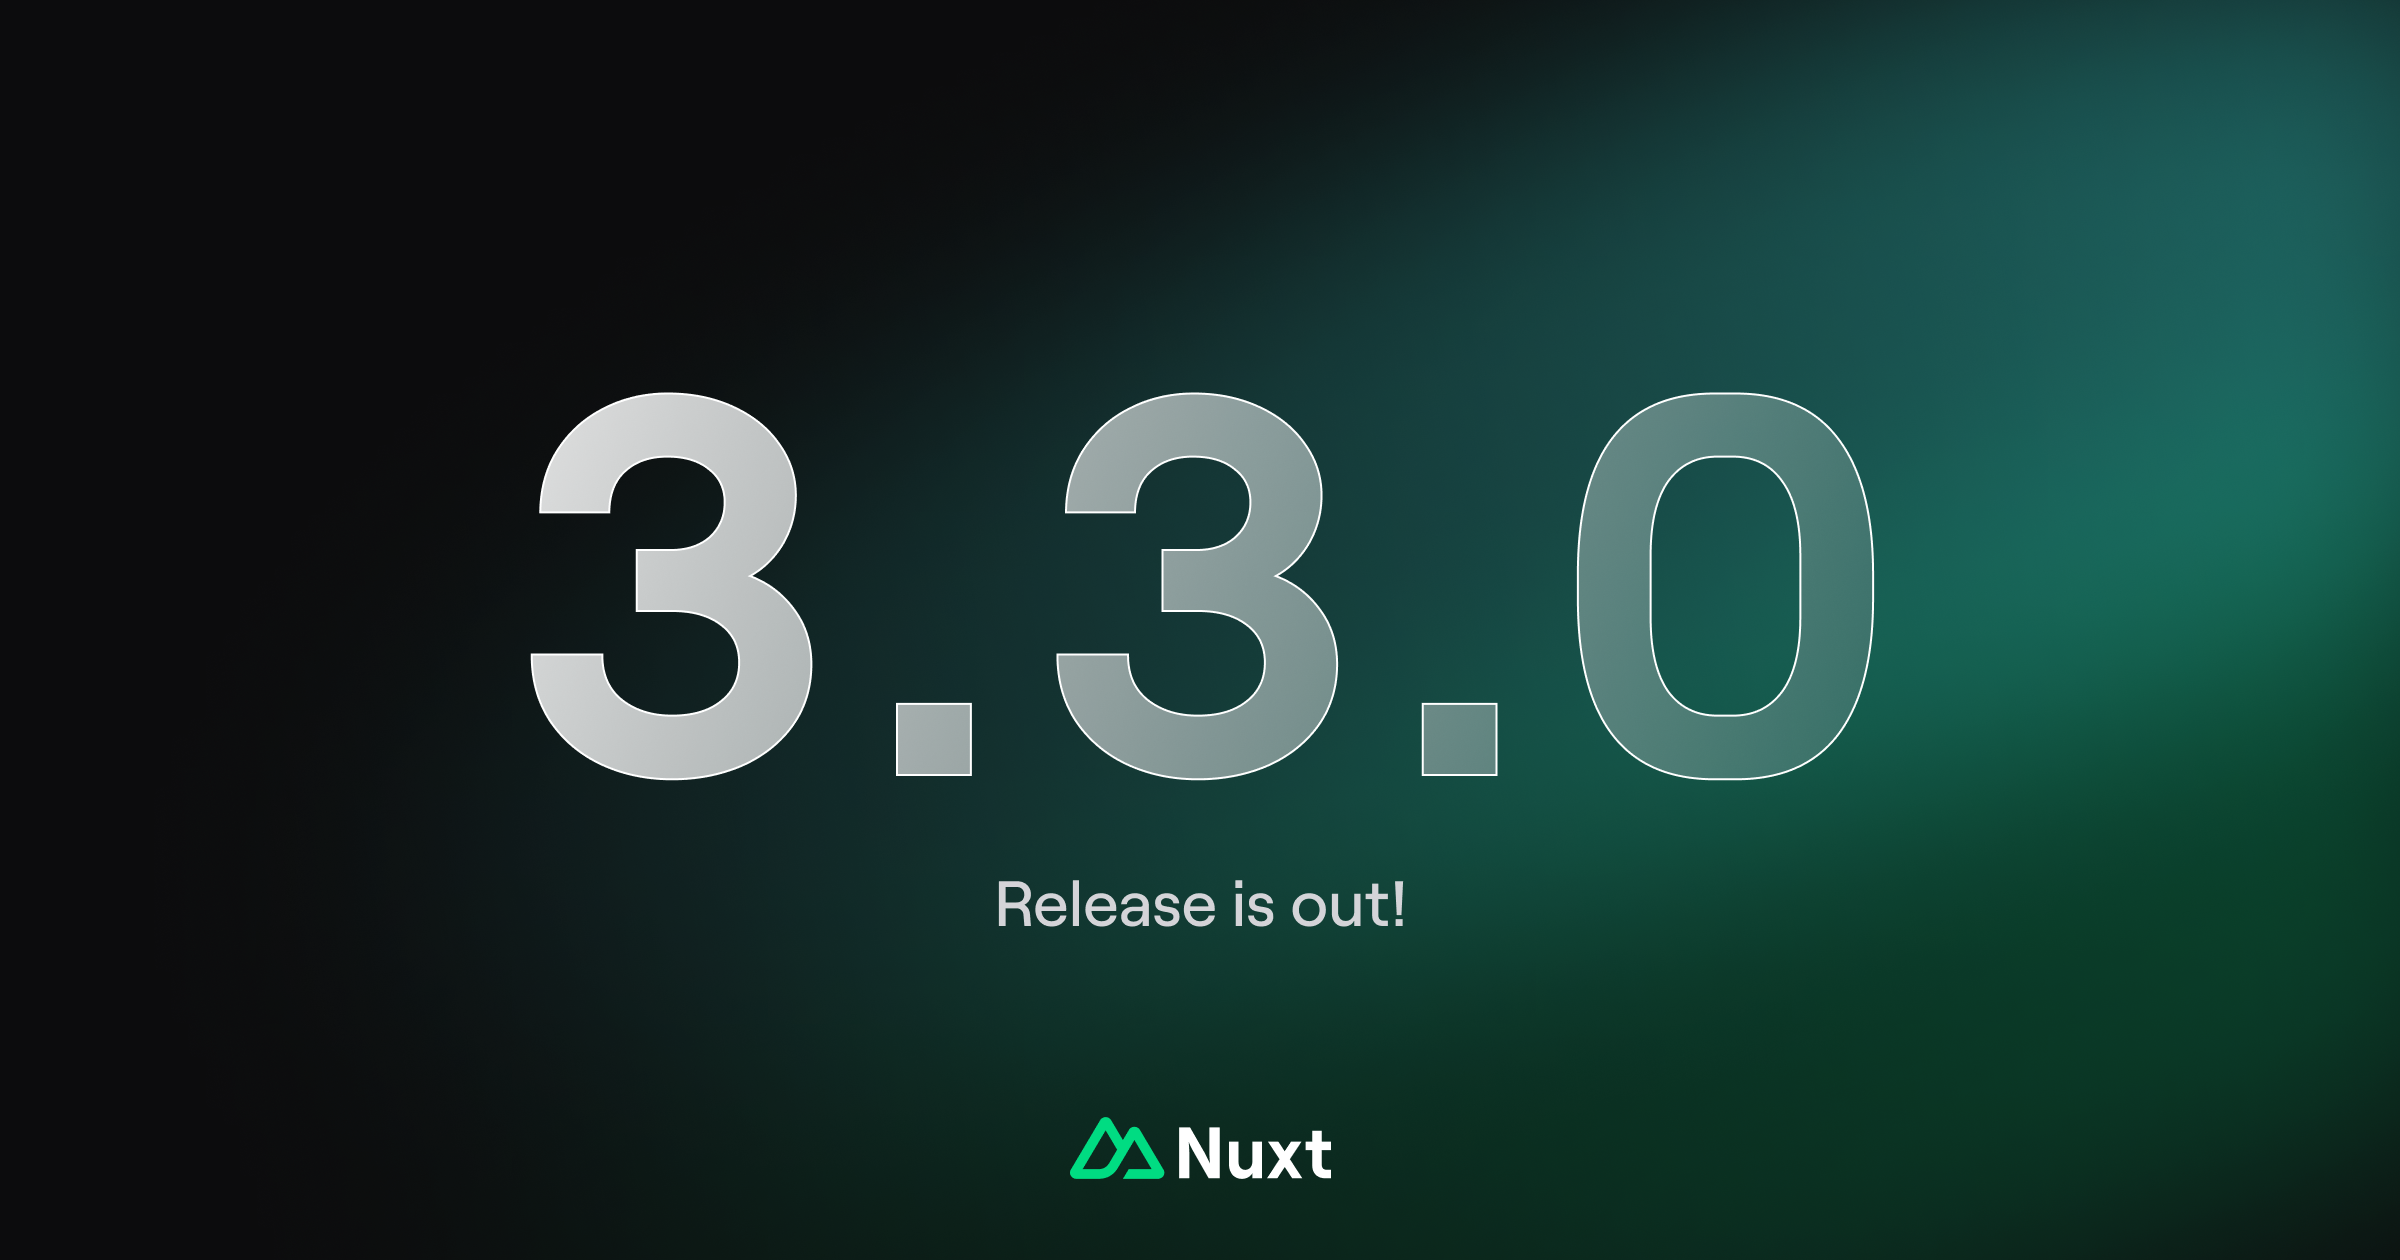
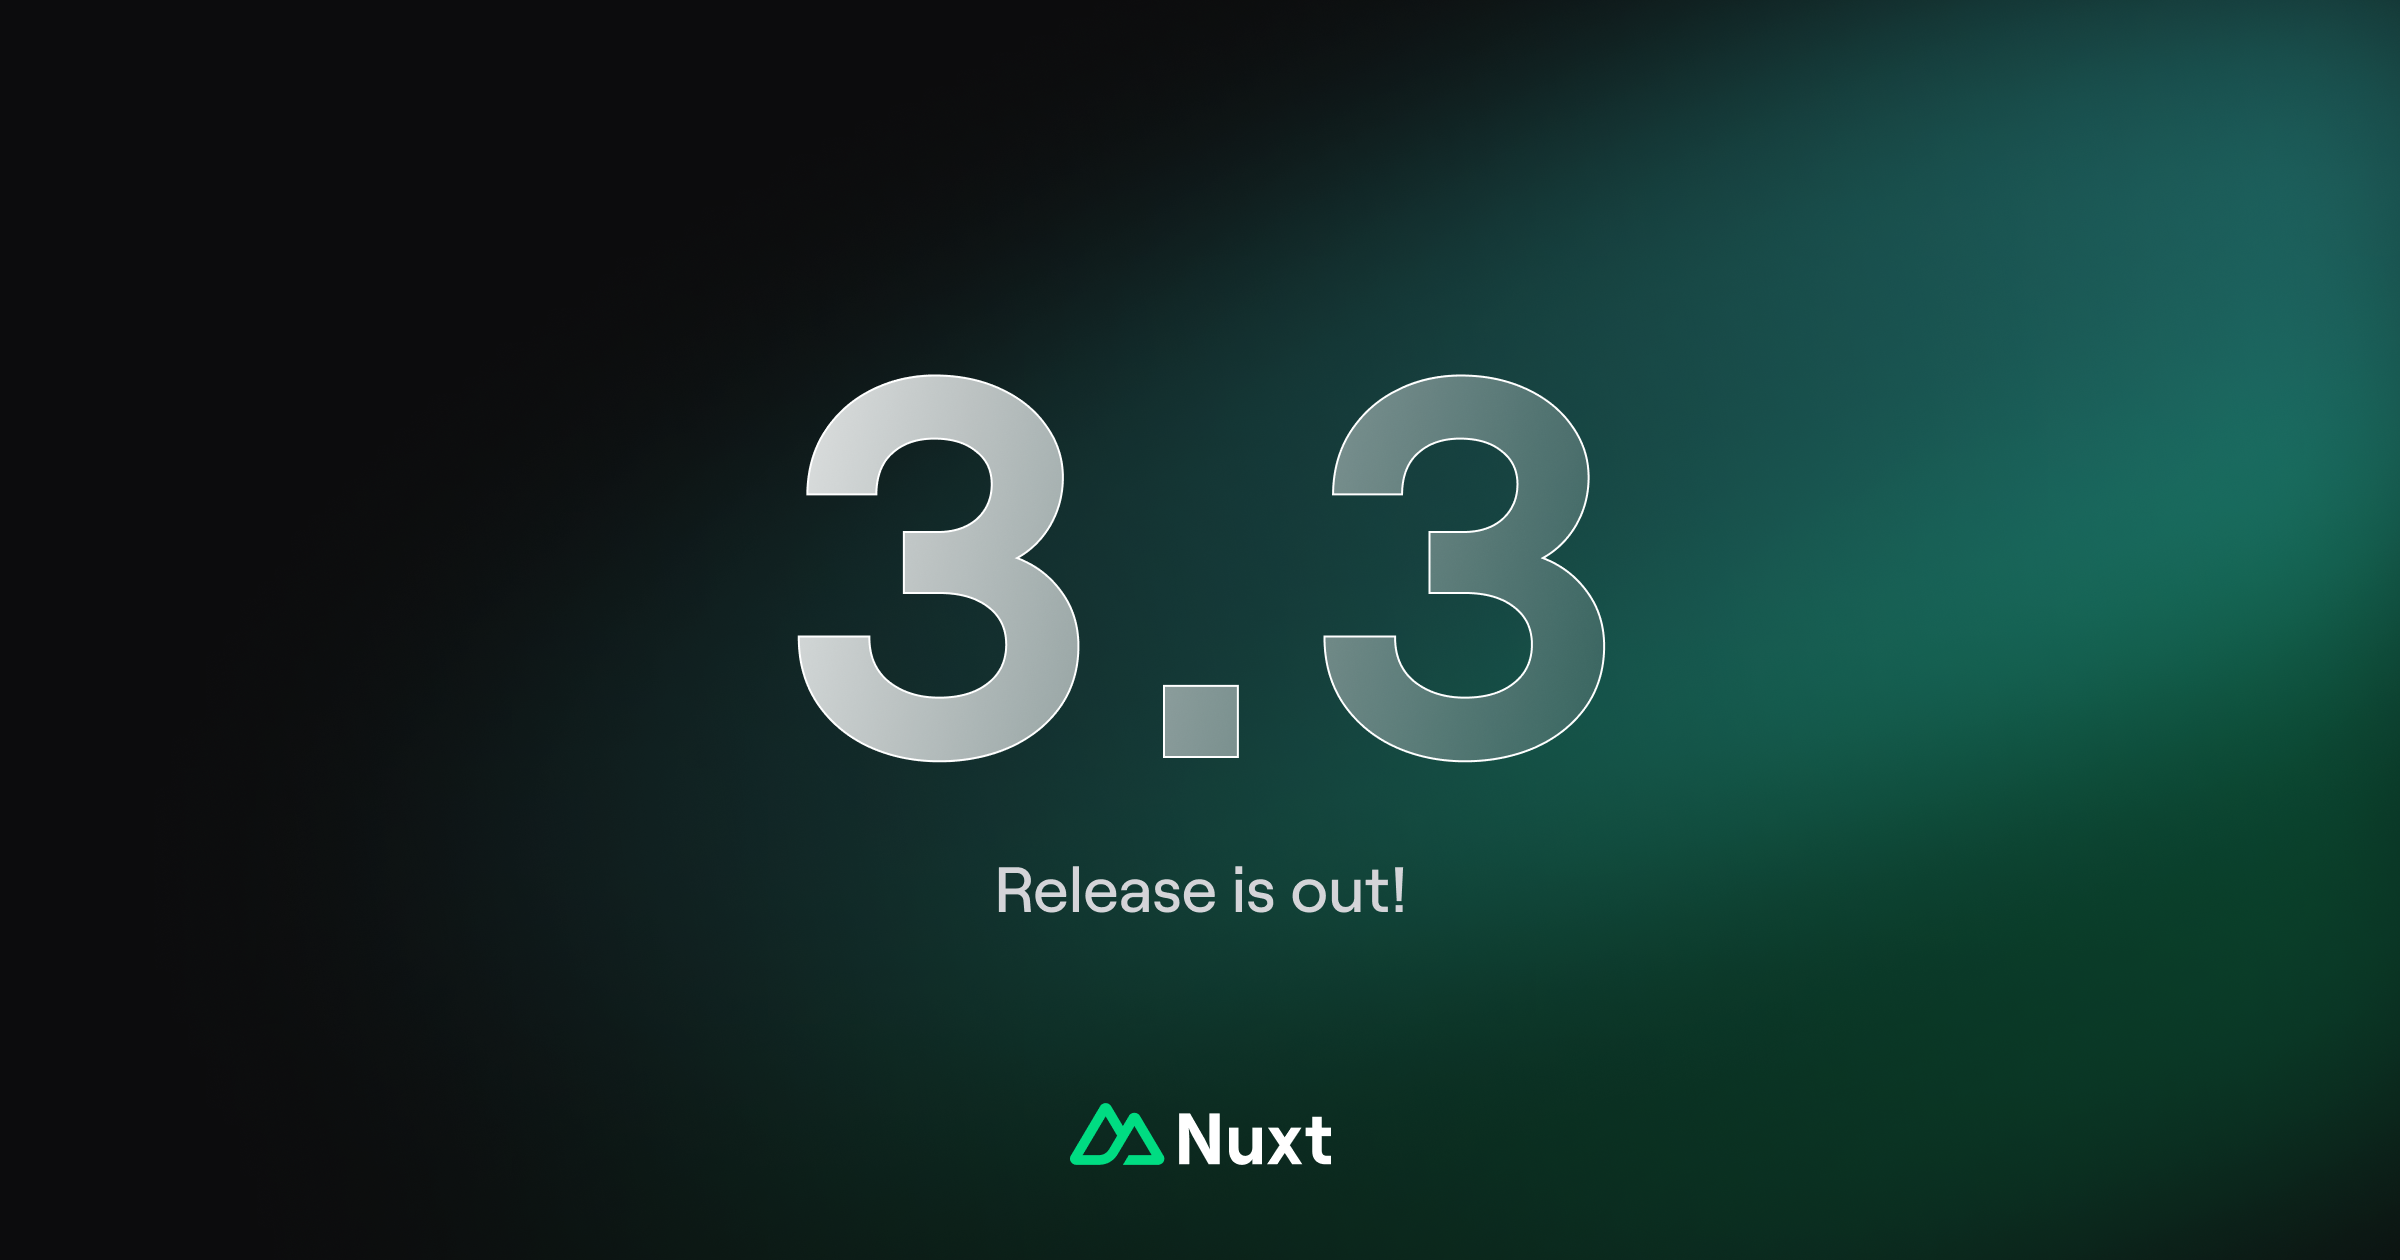
fix: seo (#1285)
* fix: seo

* chore: update image

Changed region(s): [[0.2188, 0.2786, 0.7812, 0.619], [0.4062, 0.681, 0.5938, 0.7429], [0.4375, 0.8667, 0.5625, 0.9595]]

diff --git a/nuxt.config.ts b/nuxt.config.ts
@@ -16,37 +16,40 @@ if (process.env.NUXT_DOCS_PATH) {
   docsSource.base = process.env.NUXT_DOCS_PATH
 }
 
-let routeRules = {}
-if (process.env.NODE_ENV !== 'development') {
-  routeRules = {
-    // prerendered pages
-    '/': { prerender: true },
-    '/sitemap.xml': { prerender: true },
-    '/newsletter': { prerender: true },
-    '/design-kit': { prerender: true },
-    '/support/solutions': { prerender: true },
-    '/support/agencies': { prerender: true },
-    '/api/_content/**': { prerender: true },
-    '/api/newsletter/**': { cache: false, swr: false },
-    '/docs/**': { prerender: true },
-    // more frequently updated pages
-    '/modules/**': { swr: 60 },
-    '/partners/**': { swr: 60 },
-    '/showcase': { swr: 60 },
-    '/api/jobs': { swr: 60 },
-    '/api/sponsors': { swr: 60 },
-    '/api/email/**': { swr: 60 },
-    '/api/modules/**': { swr: 60 },
-    // defaults
-    '/**': { cache: { swr: true, maxAge: 120, staleMaxAge: 60, headersOnly: true }, prerender: false }
-  }
-}
-
 // https://v3.nuxtjs.org/guide/directory-structure/nuxt.config
 export default defineNuxtConfig({
-  experimental: {
-    // inlineSSRStyles: false
-    emitRouteChunkError: 'reload'
+  $development: {
+    runtimeConfig: {
+      public: {
+        website: {
+          url: 'http://localhost:3000'
+        }
+      }
+    }
+  },
+  $production: {
+    routeRules: {
+      // prerendered pages
+      '/': { prerender: true },
+      '/sitemap.xml': { prerender: true },
+      '/newsletter': { prerender: true },
+      '/design-kit': { prerender: true },
+      '/support/solutions': { prerender: true },
+      '/support/agencies': { prerender: true },
+      '/api/_content/**': { prerender: true },
+      '/api/newsletter/**': { cache: false, swr: false },
+      '/docs/**': { prerender: true },
+      // more frequently updated pages
+      '/modules/**': { swr: 60 },
+      '/partners/**': { swr: 60 },
+      '/showcase': { swr: 60 },
+      '/api/jobs': { swr: 60 },
+      '/api/sponsors': { swr: 60 },
+      '/api/email/**': { swr: 60 },
+      '/api/modules/**': { swr: 60 },
+      // defaults
+      '/**': { cache: { swr: true, maxAge: 120, staleMaxAge: 60, headersOnly: true }, prerender: false }
+    }
   },
   extends: '@nuxt-themes/typography',
   css: [
@@ -130,7 +133,13 @@ export default defineNuxtConfig({
       apiKey: process.env.NUXT_MAILJET_API_KEY || '',
       secretKey: process.env.NUXT_MAILJET_SECRET_KEY || ''
     },
-    public: {}
+    public: {
+      website: {
+        title: 'Nuxt',
+        url: 'https://nuxt.com',
+        image: '/social.jpg'
+      }
+    }
   },
   colorMode: {
     classSuffix: ''
@@ -187,6 +196,5 @@ export default defineNuxtConfig({
     prerender: {
       crawlLinks: true
     }
-  },
-  routeRules
+  }
 })

diff --git a/app.vue b/app.vue
@@ -2,54 +2,54 @@
 import { hasProtocol, joinURL } from 'ufo'
 
 const { navigation, layout, page } = useContent()
-const { website } = useAppConfig()
+const { website } = useRuntimeConfig().public
 const { navKeyFromPath } = useContentHelpers()
 const route = useRoute()
 
 const titleTemplate = computed(() => {
-  const appTitleTemplate = website.head?.titleTemplate || `%s · ${website.title}`
+  const appTitleTemplate = website?.titleTemplate || `%s · ${website.title}`
   if (page.value) {
     return page.value.head?.titleTemplate || navKeyFromPath(page.value._path, 'titleTemplate', navigation.value || []) || appTitleTemplate
   }
   return appTitleTemplate
 })
 const ogImage = computed(() => {
-  const appOgImage = website.image && hasProtocol(website.image) ? website.image : joinURL('https://nuxt.com', website.image || 'social.jpg')
+  const appOgImage = website.image && hasProtocol(website.image) ? website.image : joinURL(website.url, website.image)
   if (page.value) {
     const image = page.value.image || navKeyFromPath(page.value._path, 'image', navigation.value || []) || appOgImage
-    return hasProtocol(image) ? image : joinURL('https://nuxt.com', image)
+    return hasProtocol(image) ? image : joinURL(website.url, image)
   }
   return appOgImage
 })
 
-defineProps({
-  padded: {
-    type: Boolean,
-    default: true
+const ogUrl = computed(() => joinURL(website.url, route.fullPath))
+const title = computed(() => page.value?.head?.title || page.value?.title || 'Not found')
+const description = computed(() => page.value?.head?.description || page.value?.description || 'Page not found')
+
+useServerHead({
+  link: [
+    { rel: 'icon', href: '/icon.png' },
+    { rel: 'canonical', href: ogUrl }
+  ],
+  htmlAttrs: {
+    lang: 'en'
+  },
+  bodyAttrs: {
+    class: 'antialiased font-sans text-gray-700 dark:text-gray-200 bg-white dark:bg-black [--scroll-mt:10rem] lg:[--scroll-mt:7rem]'
   }
 })
 
-useHead({
-  meta: [
-    () => ({ property: 'og:url', content: joinURL('https://nuxt.com', route.fullPath) })
-  ]
-})
-
-watch(titleTemplate, () => {
-  useHead({ titleTemplate: titleTemplate.value })
-})
-
-useContentHead({
-  ...website,
-  head: {
-    ...website.head,
-    titleTemplate: titleTemplate.value,
-    meta: [
-      ...(website.head?.meta || []).filter(meta => !['og:image'].includes(meta.property)),
-      { property: 'og:image', content: ogImage.value },
-      { property: 'og:description', content: page.value?.description }
-    ]
-  }
+useSeoMeta({
+  titleTemplate,
+  title,
+  description,
+  ogImage,
+  ogImageAlt: title,
+  ogUrl,
+  ogSiteName: 'Nuxt',
+  ogType: 'website',
+  twitterSite: '@nuxt_js',
+  twitterCard: 'summary_large_image'
 })
 </script>
 

diff --git a/pages/modules/[slug].vue b/pages/modules/[slug].vue
@@ -104,13 +104,10 @@ const copyToClipboard = (content: string) => {
   }, 2000)
 }
 
-useHead({
-  title: capitalize(module.value.name) + ' Module',
-  meta: [
-    { property: 'og:title', content: capitalize(module.value.name) + ' Module' },
-    { property: 'description', content: module.value.description },
-    { property: 'og:description', content: module.value.description }
-  ]
+useSeoMeta({
+  title: `${capitalize(module.value.name)} Module`,
+  description: module.value.description,
+  ogImage: '/socials/modules.jpg'
 })
 </script>
 

diff --git a/pages/support/jobs/index.vue b/pages/support/jobs/index.vue
@@ -4,13 +4,4 @@
 
 <script setup lang="ts">
 const { page } = useContent()
-
-useHead({
-  title: page.value.title,
-  meta: [
-    { property: 'og:title', content: page.value.title },
-    { property: 'description', content: page.value.description },
-    { property: 'og:description', content: page.value.description }
-  ]
-})
 </script>

diff --git a/pages/support/solutions/index.vue b/pages/support/solutions/index.vue
@@ -4,13 +4,4 @@
 
 <script setup lang="ts">
 const { page } = useContent()
-
-useHead({
-  title: page.value.title,
-  meta: [
-    { property: 'og:title', content: page.value.title },
-    { property: 'description', content: page.value.description },
-    { property: 'og:description', content: page.value.description }
-  ]
-})
 </script>

diff --git a/pages/support/us/index.vue b/pages/support/us/index.vue
@@ -4,13 +4,4 @@
 
 <script setup lang="ts">
 const { page } = useContent()
-
-useHead({
-  title: page.value.title,
-  meta: [
-    { property: 'og:title', content: page.value.title },
-    { property: 'description', content: page.value.description },
-    { property: 'og:description', content: page.value.description }
-  ]
-})
 </script>

diff --git a/pages/support/workshop/index.vue b/pages/support/workshop/index.vue
@@ -4,13 +4,4 @@
 
 <script setup lang="ts">
 const { page } = useContent()
-
-useHead({
-  title: page.value.title,
-  meta: [
-    { property: 'og:title', content: page.value.title },
-    { property: 'description', content: page.value.description },
-    { property: 'og:description', content: page.value.description }
-  ]
-})
 </script>

diff --git a/error.vue b/error.vue
@@ -13,6 +13,10 @@ useHead({
     class: 'antialiased font-sans text-gray-700 dark:text-gray-200 bg-white dark:bg-black'
   }
 })
+useSeoMeta({
+  title: 'Page not found',
+  description: 'We are sorry but this page could not be found.'
+})
 
 defineProps({
   error: {

diff --git a/pages/blog/[slug]/index.vue b/pages/blog/[slug]/index.vue
@@ -6,16 +6,4 @@
 const { page } = useContent()
 
 usePageNotFound(page)
-useContentHead(page)
-
-const route = useRoute()
-
-useHead({
-  link: [
-    {
-      rel: 'canonical',
-      href: `https://nuxt.com${route.fullPath}`
-    }
-  ]
-})
 </script>

diff --git a/pages/docs/[...slug].vue b/pages/docs/[...slug].vue
@@ -18,6 +18,4 @@ usePageNotFound(page)
 const githubLink = computed(() => `https://github.com/nuxt/nuxt/edit/main/${page?.value?._file}`)
 
 const hasToc = computed(() => !!page.value?.body?.toc?.links?.length)
-
-useContentHead(page)
 </script>

diff --git a/pages/index.vue b/pages/index.vue
@@ -11,6 +11,4 @@ const { fetchList: fetchModules } = useModules()
 
 /* resources are needed in the page, start fetching as soon as possible */
 await Promise.all([fetchShowcases(), fetchModules()])
-
-useContentHead(page)
 </script>

diff --git a/pages/docs/index.vue b/pages/docs/index.vue
@@ -8,8 +8,6 @@
 const { page } = useContent()
 
 usePageNotFound(page)
-
-useContentHead(page)
 </script>
 
 <style lang="postcss" scoped>
